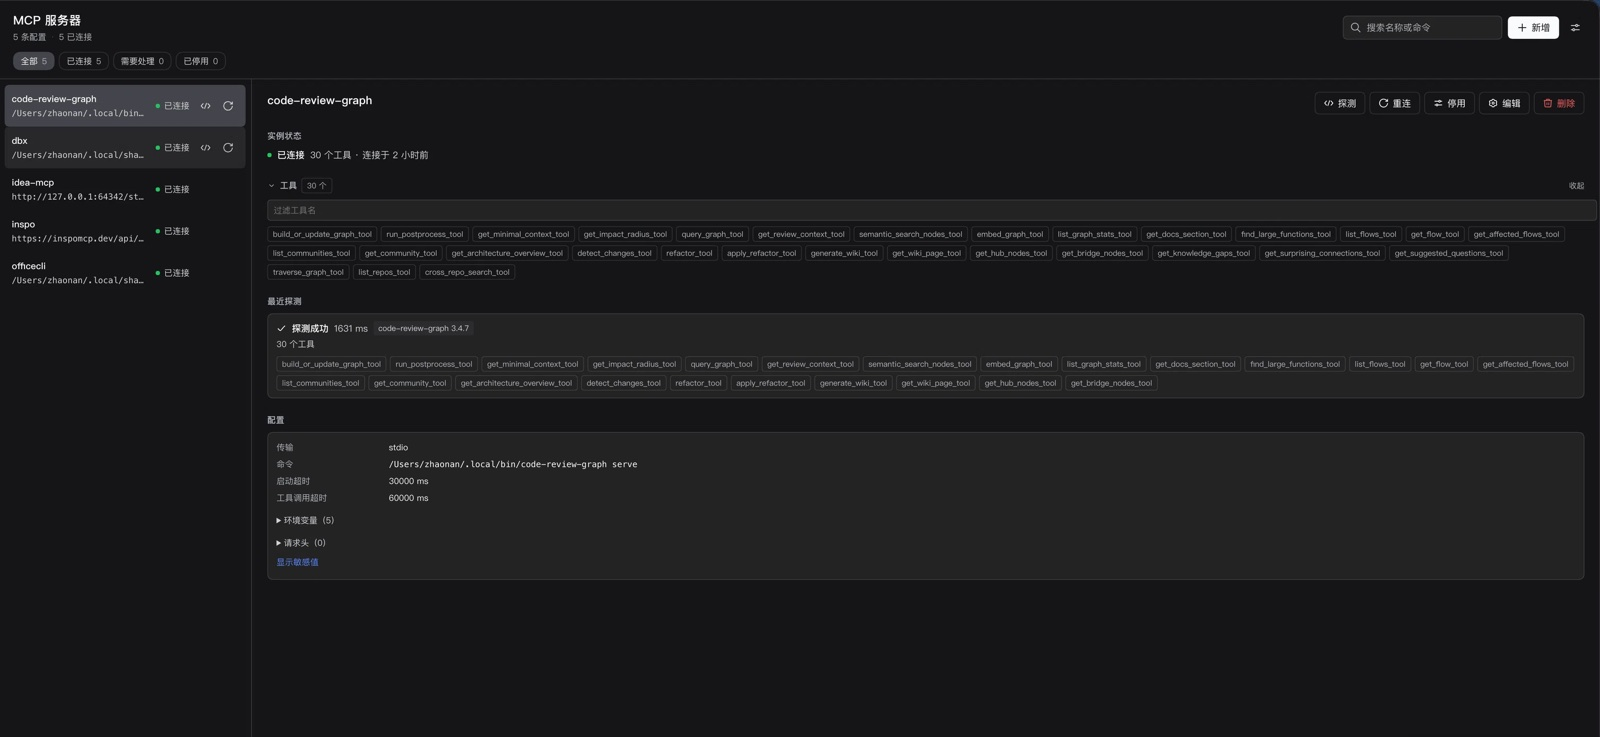
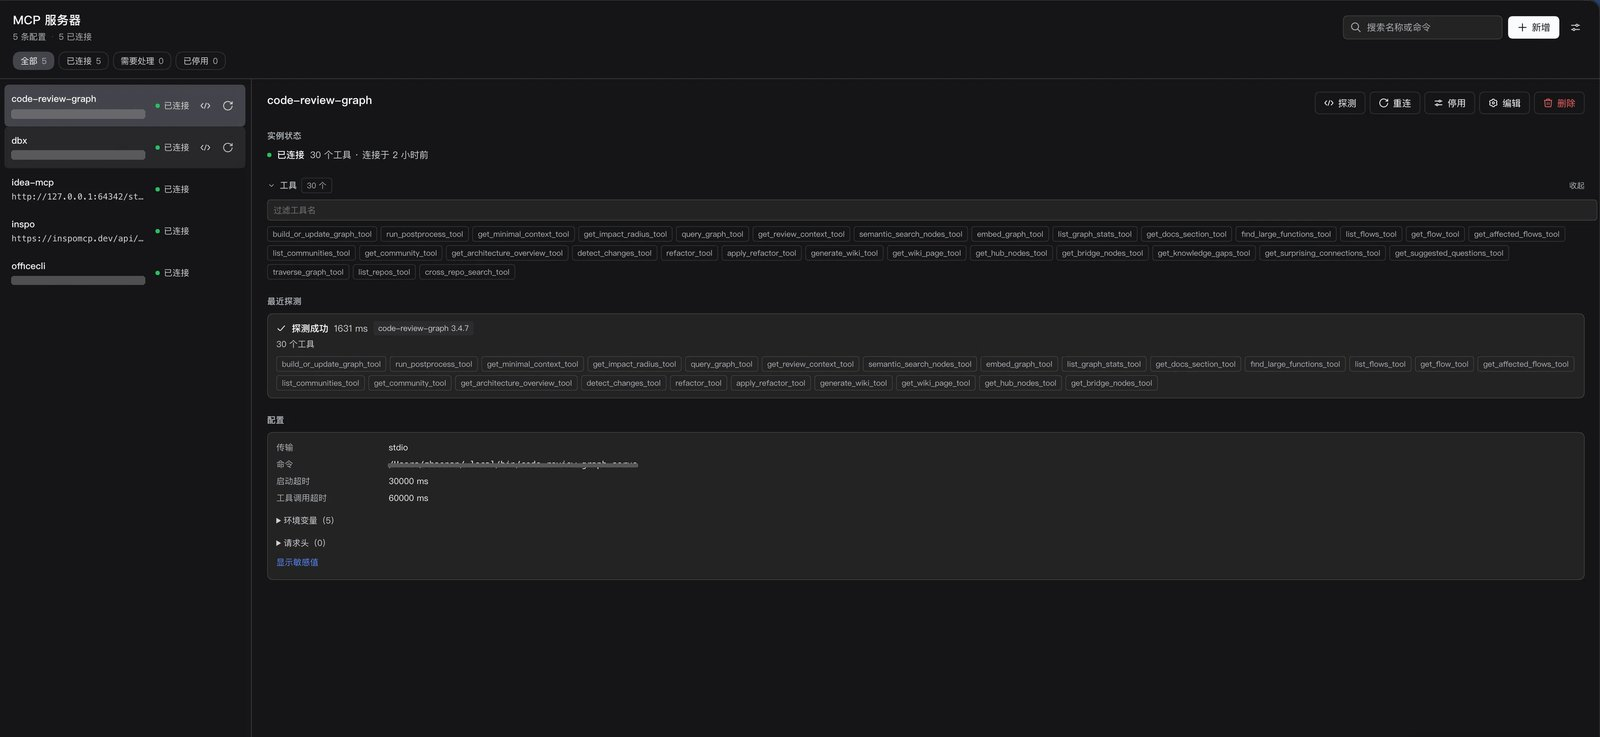
改名为 dsh-mcp-studio：包名与仓库名同步，截图里打码本机路径

diff --git a/client.js b/client.js
@@ -1,5 +1,5 @@
 /**
- * dsh-mcp-console — 客户端界面。
+ * dsh-mcp-studio — 客户端界面。
  *
  * 手写 __ModuleLoader__ bundle（零构建步骤）：
  *   - 运行时状态来自 @deepseek-ai/dsh-mcp-manager 的远程方法
@@ -11,11 +11,11 @@
  *
  * 侧边栏入口在 sidebar.panellist 槽位，主面板 key 与它同 id（PANEL_ID）。
  *
- * @module dsh-mcp-console/client
+ * @module dsh-mcp-studio/client
  */
 
 window.__ModuleLoader__.load({
-	id: "dsh-mcp-console",
+	id: "dsh-mcp-studio",
 	factory: function (require) {
 		var React = require("react");
 		var primitives = {};
@@ -70,7 +70,7 @@ window.__ModuleLoader__.load({
 
 		// ── 入口开关（本机偏好，存 localStorage，不写配置文件）─────────────────
 
-		var PREFS_KEY = "dsh-mcp-console:prefs";
+		var PREFS_KEY = "dsh-mcp-studio:prefs";
 		var DEFAULT_PREFS = { sidebarEntry: true, headerPill: true, settingsSection: true };
 
 		function readPrefs() {
@@ -1742,7 +1742,7 @@ window.__ModuleLoader__.load({
 
 		// ── 样式 ────────────────────────────────────────────────────────────────
 
-		var STYLE_ID = "dsh-mcp-console-style";
+		var STYLE_ID = "dsh-mcp-studio-style";
 		var CSS = [
 			".mc-root{display:flex;flex-direction:column;flex:1 1 auto;height:100%;min-height:0;background:var(--dsw-alias-bg-base);color:var(--dsw-alias-label-primary);font-size:13px;line-height:1.5;font-family:-apple-system,'PingFang SC','HarmonyOS Sans SC','MiSans','Microsoft YaHei',system-ui,sans-serif;position:relative}",
 			".mc-mono{font-family:ui-monospace,SFMono-Regular,Menlo,Consolas,monospace;font-size:12px}",
@@ -2495,7 +2495,7 @@ window.__ModuleLoader__.load({
 					);
 				}
 
-				// 插件页（设置 → 插件 → dsh-mcp-console）：summary 只放一行摘要 + 入口，
+				// 插件页（设置 → 插件 → dsh-mcp-studio）：summary 只放一行摘要 + 入口，
 				// page 视图直接给设置页那份单列卡片，省得再写一套。
 				function BundleConfig(props) {
 					var state = useSyncExternalStore(store.subscribe, store.getSnapshot, store.getSnapshot);
@@ -2596,7 +2596,7 @@ window.__ModuleLoader__.load({
 								return ctx.slots.register(
 									{
 										name: "conversation.session.header.utilities",
-										id: "dsh-mcp-console-pill",
+										id: "dsh-mcp-studio-pill",
 										order: 7,
 										label: function () {
 											return "MCP 服务器";
@@ -2619,7 +2619,7 @@ window.__ModuleLoader__.load({
 								);
 							});
 							ensure("plugins.bundle.config", true, function () {
-								return ctx.slots.register({ name: "plugins.bundle.config", key: "dsh-mcp-console" }, BundleConfig);
+								return ctx.slots.register({ name: "plugins.bundle.config", key: "dsh-mcp-studio" }, BundleConfig);
 							});
 						}
 

diff --git a/index.js b/index.js
@@ -1,11 +1,11 @@
 /**
- * dsh-mcp-console — Host 侧入口。
+ * dsh-mcp-studio — Host 侧入口。
  *
  * 本插件的能力全部落在客户端：界面通过 @deepseek-ai/dsh-mcp-manager 的远程方法
  * （watch / probe / restart）读运行时状态，通过 configForms 服务改写 mcp-manager 的
  * `servers` 配置。Host 侧不需要注册任何服务，因此这里只提供一个空的 apply。
  *
- * @module dsh-mcp-console
+ * @module dsh-mcp-studio
  */
 
 export function apply() {}

diff --git a/README.md b/README.md
@@ -1,6 +1,6 @@
-![dsh-mcp-console: every MCP server in your profile, live](assets/readme/hero.svg)
+![dsh-mcp-studio: every MCP server in your profile, live](assets/readme/hero.svg)
 
-**dsh-mcp-console** is the missing UI for DeepSeek Harness's official `mcp-manager` plugin: see each
+**dsh-mcp-studio** is the missing UI for DeepSeek Harness's official `mcp-manager` plugin: see each
 MCP server's **live connection state**, **probe** it for its tool list, **restart** it, and **edit it in
 place** — without hand-editing `cordis.patch.yml` and without restarting the app.
 
@@ -50,15 +50,15 @@ settings form are all still there.
 **From the app**: Settings → Plugins → add a plugin → point it at this repository, then reload the
 window once (⌘R / Ctrl+R) so the client bundle is picked up.
 
-**With an agent**: ask it to install `/path/to/dsh-mcp-console` into your profile. That calls
+**With an agent**: ask it to install `/path/to/dsh-mcp-studio` into your profile. That calls
 `plugin_manager` with `action: install_bundle`, which links the package, appends it to
 `dsh.profile.bundles`, and reports `application: applied`.
 
 **By hand**: pnpm alone does **not** register the bundle, so do both steps:
 
 ```bash
-dsh plugin --profile <your-profile> add link:/abs/path/to/dsh-mcp-console
-# then add "dsh-mcp-console" to "dsh".profile.bundles in
+dsh plugin --profile <your-profile> add link:/abs/path/to/dsh-mcp-studio
+# then add "dsh-mcp-studio" to "dsh".profile.bundles in
 #   $DSH_HOME/profiles/<your-profile>/package.json
 ```
 
@@ -82,7 +82,7 @@ console shows the last probe result with its timestamp instead of polling.
 ## Entries and preferences
 
 The three entry points can each be switched off in the **入口** block (top of the settings page, and in
-the console). The choice lives in `localStorage` under `dsh-mcp-console:prefs`; it never touches your
+the console). The choice lives in `localStorage` under `dsh-mcp-studio:prefs`; it never touches your
 config file. The console panel and the bundle row stay registered so the plugin is always reachable.
 
 ## Known limitations
@@ -97,7 +97,7 @@ config file. The console panel and the bundle row stay registered so the plugin 
 
 | Symptom | Fix |
 | --- | --- |
-| Sidebar icon or chip missing | It is switched off in **入口** — reopen Settings → MCP 服务器, or clear `dsh-mcp-console:prefs` |
+| Sidebar icon or chip missing | It is switched off in **入口** — reopen Settings → MCP 服务器, or clear `dsh-mcp-studio:prefs` |
 | Console says the remote method is unavailable | `mcp-manager` is not enabled in this profile, or its remotes have not mounted yet (the panel retries and names the reason) |
 | Everything reads "状态未知" | The runtime stream has not produced a frame yet; the banner carries the watch error |
 | Edit rejected | The host refused the mutate, usually a concurrent write; the form re-reads, retry once |
@@ -113,8 +113,8 @@ no network calls of its own.
 
 DSH `>=0.2.2-rc.2 <0.3.0-0` (verified on `0.2.2-rc.3`). Client-side only — `index.js` does nothing.
 Slots registered: `main` (key `mcp-console`), `sidebar.panellist` (id `mcp-console`),
-`conversation.session.header.utilities` (id `dsh-mcp-console-pill`), `settings.section` (id
-`mcp-servers`), `plugins.bundle.config` (key `dsh-mcp-console`). If an upgrade renames a slot, the
+`conversation.session.header.utilities` (id `dsh-mcp-studio-pill`), `settings.section` (id
+`mcp-servers`), `plugins.bundle.config` (key `dsh-mcp-studio`). If an upgrade renames a slot, the
 console still opens and says which one failed.
 
 ## Development

diff --git a/README.zh.md b/README.zh.md
@@ -1,6 +1,6 @@
-![dsh-mcp-console：你配置里的每个 MCP 服务器，实时状态看得见](assets/readme/hero.svg)
+![dsh-mcp-studio：你配置里的每个 MCP 服务器，实时状态看得见](assets/readme/hero.svg)
 
-**dsh-mcp-console** 是 DeepSeek Harness 官方 `mcp-manager` 缺的那层界面：实时看每个 MCP 服务器的
+**dsh-mcp-studio** 是 DeepSeek Harness 官方 `mcp-manager` 缺的那层界面：实时看每个 MCP 服务器的
 **连接状态**、**探测**它的工具清单、**重连**、**就地改配置**——不用手改 `cordis.patch.yml`，也不用重启应用。
 
 界面上的状态全部来自宿主自己的运行时状态流，每一次写入都走官方配置表单（带 revision 围栏的原子 mutate）。
@@ -50,8 +50,8 @@
 **手工**：只用 pnpm **不会**注册 bundle，两步都要做：
 
 ```bash
-dsh plugin --profile <你的profile> add link:/abs/path/to/dsh-mcp-console
-# 再把 "dsh-mcp-console" 加进
+dsh plugin --profile <你的profile> add link:/abs/path/to/dsh-mcp-studio
+# 再把 "dsh-mcp-studio" 加进
 #   $DSH_HOME/profiles/<你的profile>/package.json 的 "dsh".profile.bundles
 ```
 
@@ -72,7 +72,7 @@ dsh plugin --profile <你的profile> add link:/abs/path/to/dsh-mcp-console
 ## 入口与偏好
 
 三个入口都能在 **入口** 区关掉（设置页顶部、控制台里都有）。开关保存在浏览器 `localStorage` 的
-`dsh-mcp-console:prefs`，不写配置文件。控制台主面板与插件页那行始终注册着，保证随时能进得来。
+`dsh-mcp-studio:prefs`，不写配置文件。控制台主面板与插件页那行始终注册着，保证随时能进得来。
 
 ## 已知限制
 
@@ -86,7 +86,7 @@ dsh plugin --profile <你的profile> add link:/abs/path/to/dsh-mcp-console
 
 | 现象 | 处理 |
 | --- | --- |
-| 侧边栏图标或胶囊不见了 | 在 **入口** 里被关掉了——从「设置 → MCP 服务器」重新打开，或清掉 `dsh-mcp-console:prefs` |
+| 侧边栏图标或胶囊不见了 | 在 **入口** 里被关掉了——从「设置 → MCP 服务器」重新打开，或清掉 `dsh-mcp-studio:prefs` |
 | 控制台说远程方法不可用 | 这个 profile 没启用 `mcp-manager`，或它的 remote 还没挂上（面板会重试并写出原因） |
 | 全部显示「状态未知」 | 运行时状态流还没推第一帧；横幅里带着 watch 的错误信息 |
 | 编辑被拒 | 宿主拒绝了这次 mutate，通常是并发写入；表单会重新读取，再试一次 |
@@ -101,8 +101,8 @@ dsh plugin --profile <你的profile> add link:/abs/path/to/dsh-mcp-console
 
 DSH `>=0.2.2-rc.2 <0.3.0-0`（在 `0.2.2-rc.3` 上实测）。纯客户端，`index.js` 是空的。
 注册的槽位：`main`（key `mcp-console`）、`sidebar.panellist`（id `mcp-console`）、
-`conversation.session.header.utilities`（id `dsh-mcp-console-pill`）、`settings.section`（id
-`mcp-servers`）、`plugins.bundle.config`（key `dsh-mcp-console`）。升级若改了槽位名，控制台照样能打开，
+`conversation.session.header.utilities`（id `dsh-mcp-studio-pill`）、`settings.section`（id
+`mcp-servers`）、`plugins.bundle.config`（key `dsh-mcp-studio`）。升级若改了槽位名，控制台照样能打开，
 并说明是哪个槽位失败。
 
 ## 开发

diff --git a/CHANGELOG.md b/CHANGELOG.md
@@ -1,5 +1,15 @@
 # Changelog
 
+## 1.1.0 — 2026-11-16
+
+- Renamed the plugin and repository from `dsh-mcp-console` to `dsh-mcp-studio`. The registry already had an
+  unrelated `dsh-mcp-console`, so the old name could never be ours; this one can. The bundle id, patch id,
+  `plugins.bundle.config` key and the client module id moved with it — remove the old bundle before
+  installing this one.
+- Entry switches now live under `localStorage["dsh-mcp-studio:prefs"]`, so they reset to their defaults once.
+- Screenshots: the console, settings and plugin-page shots had local paths in them, which exposed the
+  machine's user name. Those lines are masked now.
+
 ## 1.0.2 — 2026-11-16
 
 - README rewritten around a first screen that answers "what is this" on its own: an SVG hero carrying
@@ -27,7 +37,7 @@ First public release.
   "open console" entry.
 - **Settings page**: single-column card layout, plus the entry switches.
 - **Bundle row**: one-line summary in the plugin's own settings page.
-- Entry switches persisted per browser profile (`localStorage` key `dsh-mcp-console:prefs`).
+- Entry switches persisted per browser profile (`localStorage` key `dsh-mcp-studio:prefs`).
 - Probe, restart, enable/disable, add, edit, delete through the official `mcp-manager` remote
   methods and config form (revision-fenced atomic mutate).
 - Read-only handling for servers contributed by other plugins (`configured: false`).
